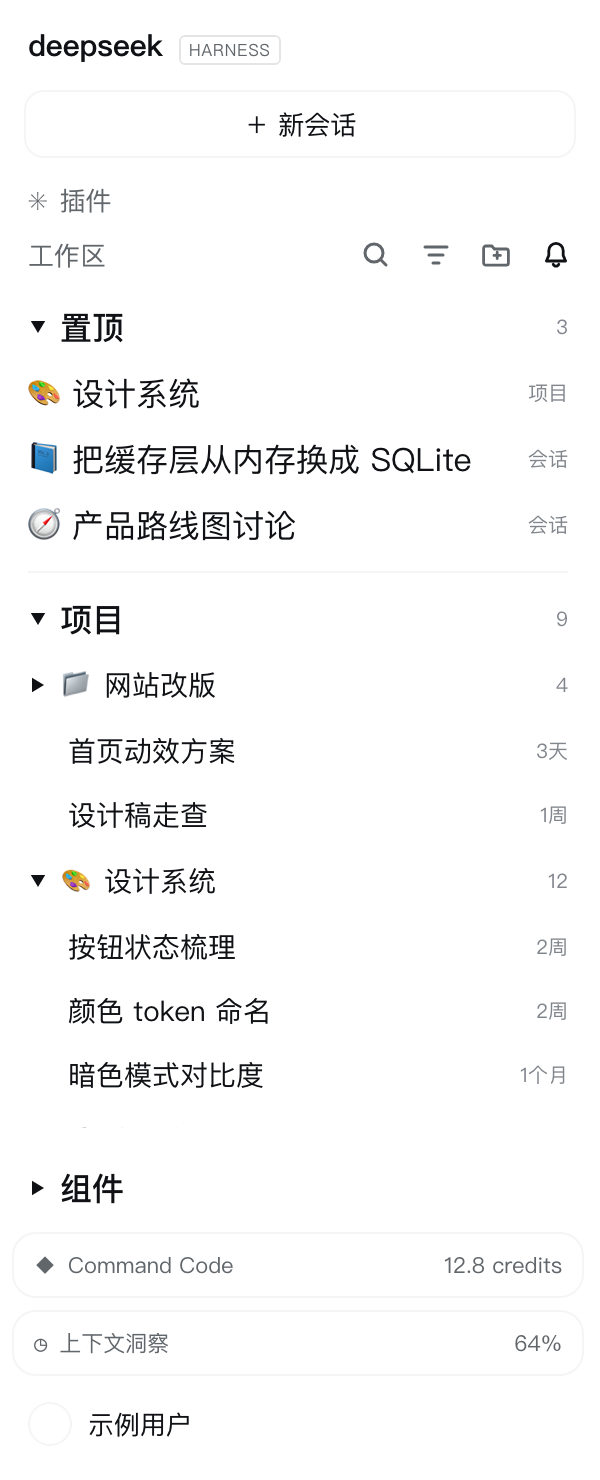
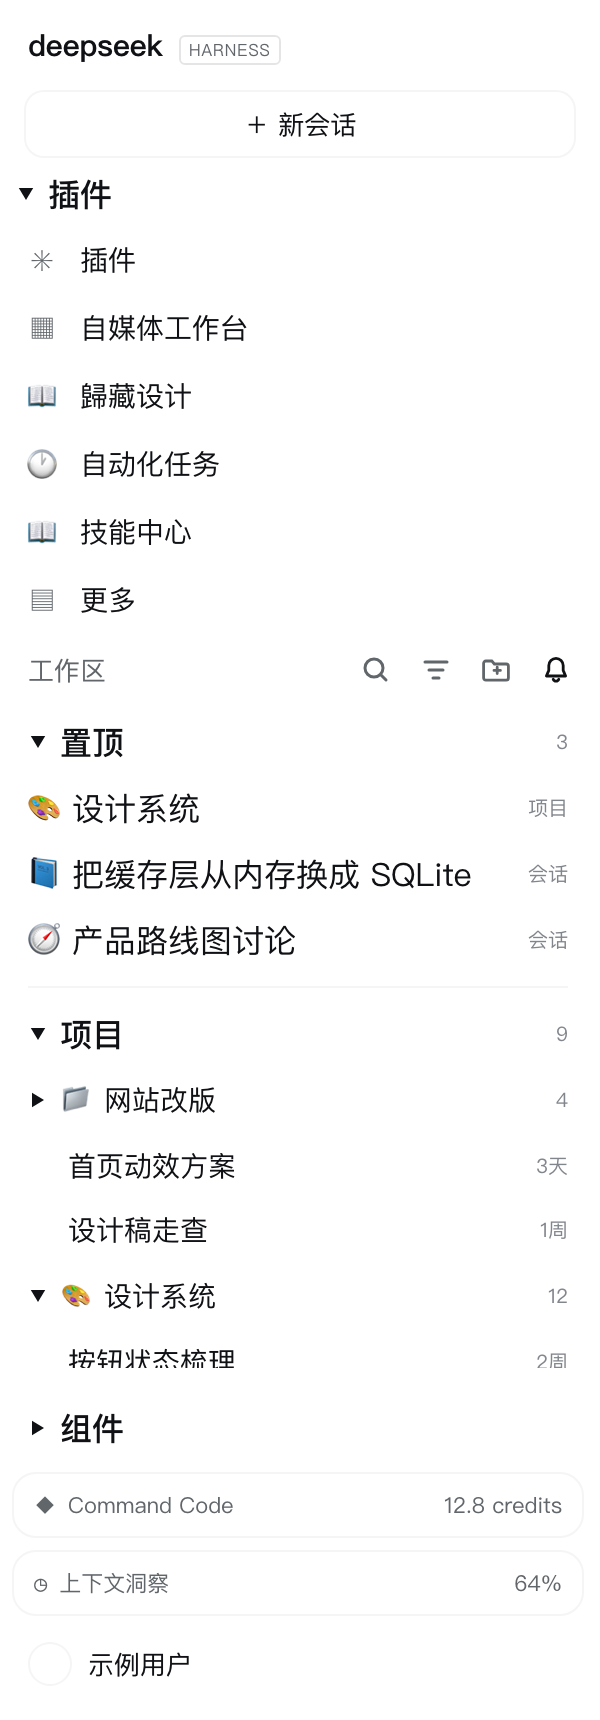
0.2.4: the plugin nav rows collapse too
The rows above 工作区 (插件 / 自媒体工作台 / 歸藏设计 …) get their own collapsible 插件 header —
the fourth section next to 置顶 / 项目 / 组件. The container is hidden, not removed, the state is
remembered per DSH home, and the header stays hidden in rail mode. Screenshots regenerated with the
new section (fictional sample data).

diff --git a/lib/client.js b/lib/client.js
@@ -68,6 +68,7 @@ window.__ModuleLoader__.load({
         collapseProjects: "收起 / 展开项目列表",
         projects: "项目",
         widgets: "组件",
+        panels: "插件",
         collapseSection: "收起 / 展开",
         today: "今天",
         yesterday: "昨天",
@@ -102,6 +103,7 @@ window.__ModuleLoader__.load({
         collapseProjects: "Collapse / expand the project list",
         projects: "Projects",
         widgets: "Widgets",
+        panels: "Plugins",
         collapseSection: "Collapse / expand",
         today: "Today",
         yesterday: "Yesterday",
@@ -482,6 +484,7 @@ window.__ModuleLoader__.load({
         const pinnedCollapsed = Boolean(parsed && parsed.pinnedCollapsed);
         const workspaceCollapsed = Boolean(parsed && parsed.workspaceCollapsed);
         const widgetsCollapsed = Boolean(parsed && parsed.widgetsCollapsed);
+        const navCollapsed = Boolean(parsed && parsed.navCollapsed);
         return {
           emoji: clean,
           recent: recent.slice(0, RECENT_LIMIT),
@@ -491,6 +494,7 @@ window.__ModuleLoader__.load({
           pinnedCollapsed,
           workspaceCollapsed,
           widgetsCollapsed,
+          navCollapsed,
         };
       };
       let state = read();
@@ -543,6 +547,13 @@ window.__ModuleLoader__.load({
         },
         toggleWidgetsCollapsed() {
           state = Object.assign({}, state, { widgetsCollapsed: !state.widgetsCollapsed });
+          persist();
+        },
+        isNavCollapsed() {
+          return state.navCollapsed;
+        },
+        toggleNavCollapsed() {
+          state = Object.assign({}, state, { navCollapsed: !state.navCollapsed });
           persist();
         },
         isExpanded(id) {
@@ -1242,6 +1253,7 @@ window.__ModuleLoader__.load({
       let sectionsNode = null;
       let sectionsSignature = "";
       let widgetsNode = null;
+      let panelsNode = null;
       let sectionsStandDown = false;
       let activityStandDown = false;
       let frame = 0;
@@ -2125,6 +2137,44 @@ window.__ModuleLoader__.load({
        * collapsible 组件 header, inserted at the top of the sidebar's foot area;
        * the settings/account row below stays untouched.
        */
+      /**
+       * The plugin nav rows at the top of the sidebar (插件 / 自媒体工作台 / 歸藏设计 …
+       * — one row per panel). A header above them collapses the whole block, the
+       * same way 置顶 / 项目 / 组件 do, and remembers its state.
+       */
+      const renderPanelsSection = () => {
+        const list = doc.querySelector('[class*="_panelList"]');
+        if (!list || !list.children || list.children.length === 0) {
+          if (panelsNode && panelsNode.parentNode) panelsNode.parentNode.removeChild(panelsNode);
+          panelsNode = null;
+          if (list && list.style) list.style.removeProperty("display");
+          return;
+        }
+        // In rail mode the shell hides the whole nav list; don't float a header.
+        const host = list.parentNode;
+        const rail = Boolean(host) && [...(host.className || "").split(/\s+/)].some(
+          (token) => token.endsWith("_collapsed") || token === "collapsed",
+        );
+        const collapsed = store.isNavCollapsed();
+        if (!panelsNode || !panelsNode.isConnected) {
+          if (rail) return;
+          panelsNode = buildSectionHead(
+            t("panels"),
+            null,
+            !collapsed,
+            () => store.toggleNavCollapsed(),
+          );
+          host.insertBefore(panelsNode, list);
+        } else {
+          panelsNode.style.display = rail ? "none" : "";
+          panelsNode.setAttribute("aria-expanded", String(!collapsed));
+          const caret = panelsNode.querySelector(".dsd-section-caret");
+          if (caret) caret.classList.toggle("dsd-caret-open", !collapsed);
+        }
+        if (list.style) list.style.display = collapsed ? "none" : "";
+        hideSiblings(panelsNode, "dsd-section-head");
+      };
+
       const renderWidgetsSection = () => {
         const foot = doc.querySelector('[class*="_footArea"]');
         if (!foot) {
@@ -2211,6 +2261,7 @@ window.__ModuleLoader__.load({
         }
 
         renderSections();
+        renderPanelsSection();
         renderWidgetsSection();
         ensureBell();
         renderActivity();

diff --git a/README.md b/README.md
@@ -42,7 +42,7 @@ collapsible sections.**
 | **Activity view** (`🔔`) | The last icon of the workspace row switches the sidebar to **recently used**: day groups (today / yesterday / weekday / date), two lines per conversation (title + project, then **the beginning of the last answer**), a running indicator, and click-through that keeps the view open so you can walk through several threads in a row. |
 | **Project icons** | Replace a project's folder icon with any emoji — on the sidebar's project rows *and* in the directory picker. A Codex-style picker: recently used, category tabs, an icon grid, and reset. |
 | **One state everywhere** | Rename a conversation, finish a turn or change a project icon and every view follows: the pinned band and the activity view resolve each row against the live stores, and a working conversation shows the shell's own running ring. |
-| **Collapsible sections** | `置顶`, `项目` (the shipped project list) and `组件` (the sidebar's bottom widgets) each collapse from their own header and remember their state. |
+| **Collapsible sections** | `插件` (the panel nav rows), `置顶`, `项目` (the shipped project list) and `组件` (the sidebar's bottom widgets) each collapse from their own header and remember their state. |
 
 ## Sidebar anatomy
 

diff --git a/CHANGELOG.md b/CHANGELOG.md
@@ -1,5 +1,12 @@
 # Changelog
 
+## 0.2.4 — the plugin nav rows collapse too
+
+The rows above 工作区 (插件 / 自媒体工作台 / 歸藏设计 … — one per installed panel) now get their own
+collapsible **插件** header, the fourth section next to 置顶 / 项目 / 组件. Clicking it hides the whole nav
+block (the rows stay in the DOM, only the container is hidden), the state is remembered, and in rail mode
+the header stays out of the way.
+
 ## 0.2.3 — one owner, decided by the newest instance
 
 Every instance used to keep its own container and hide the siblings it saw, which meant two instances
